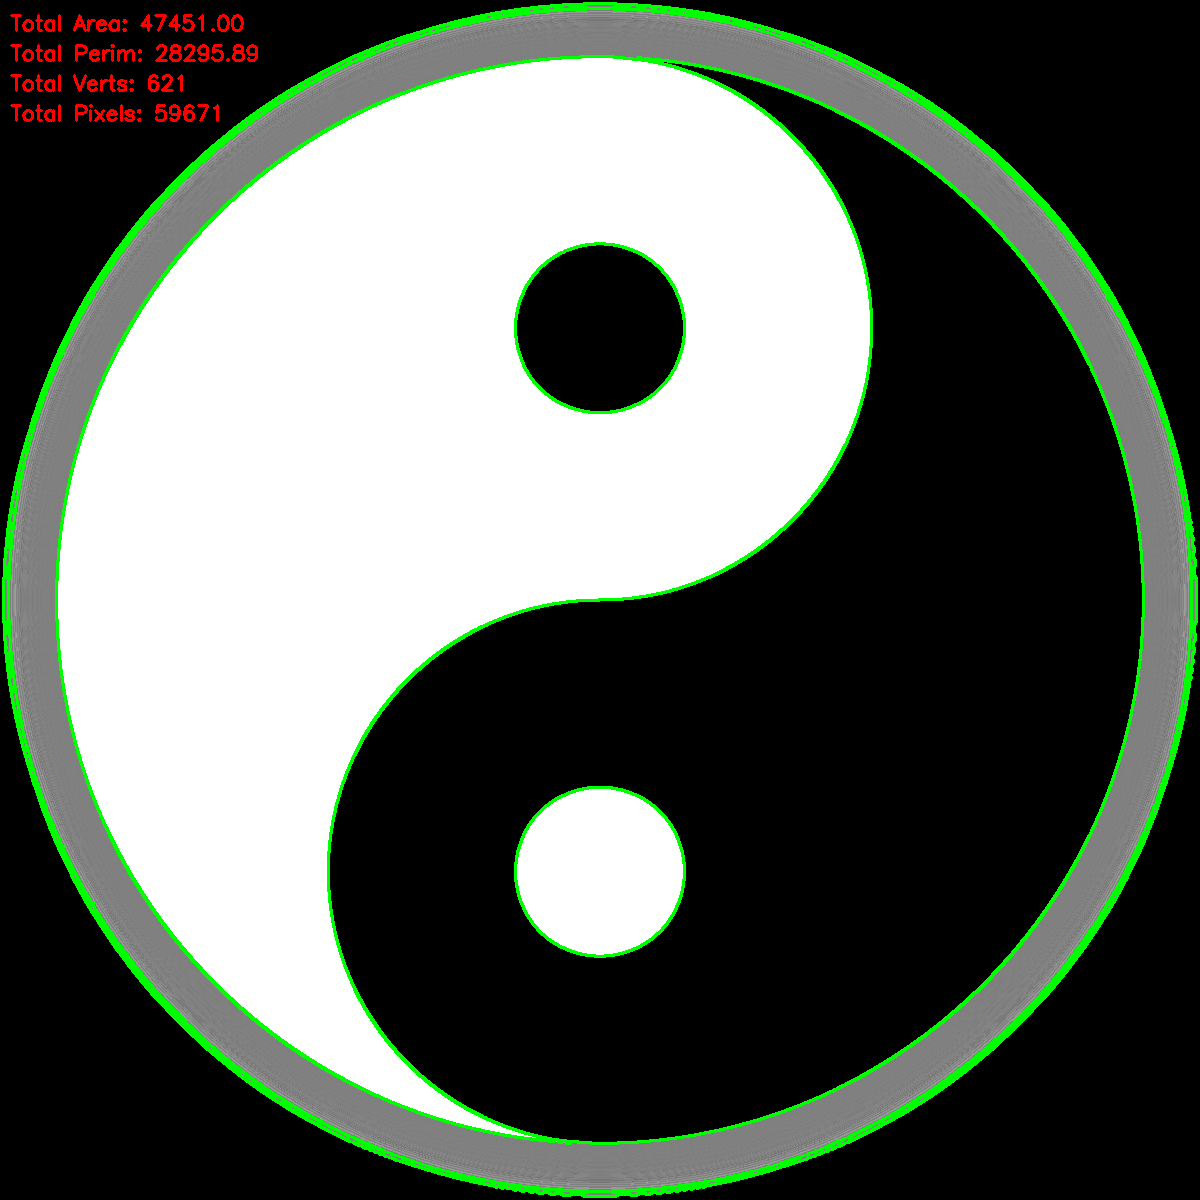
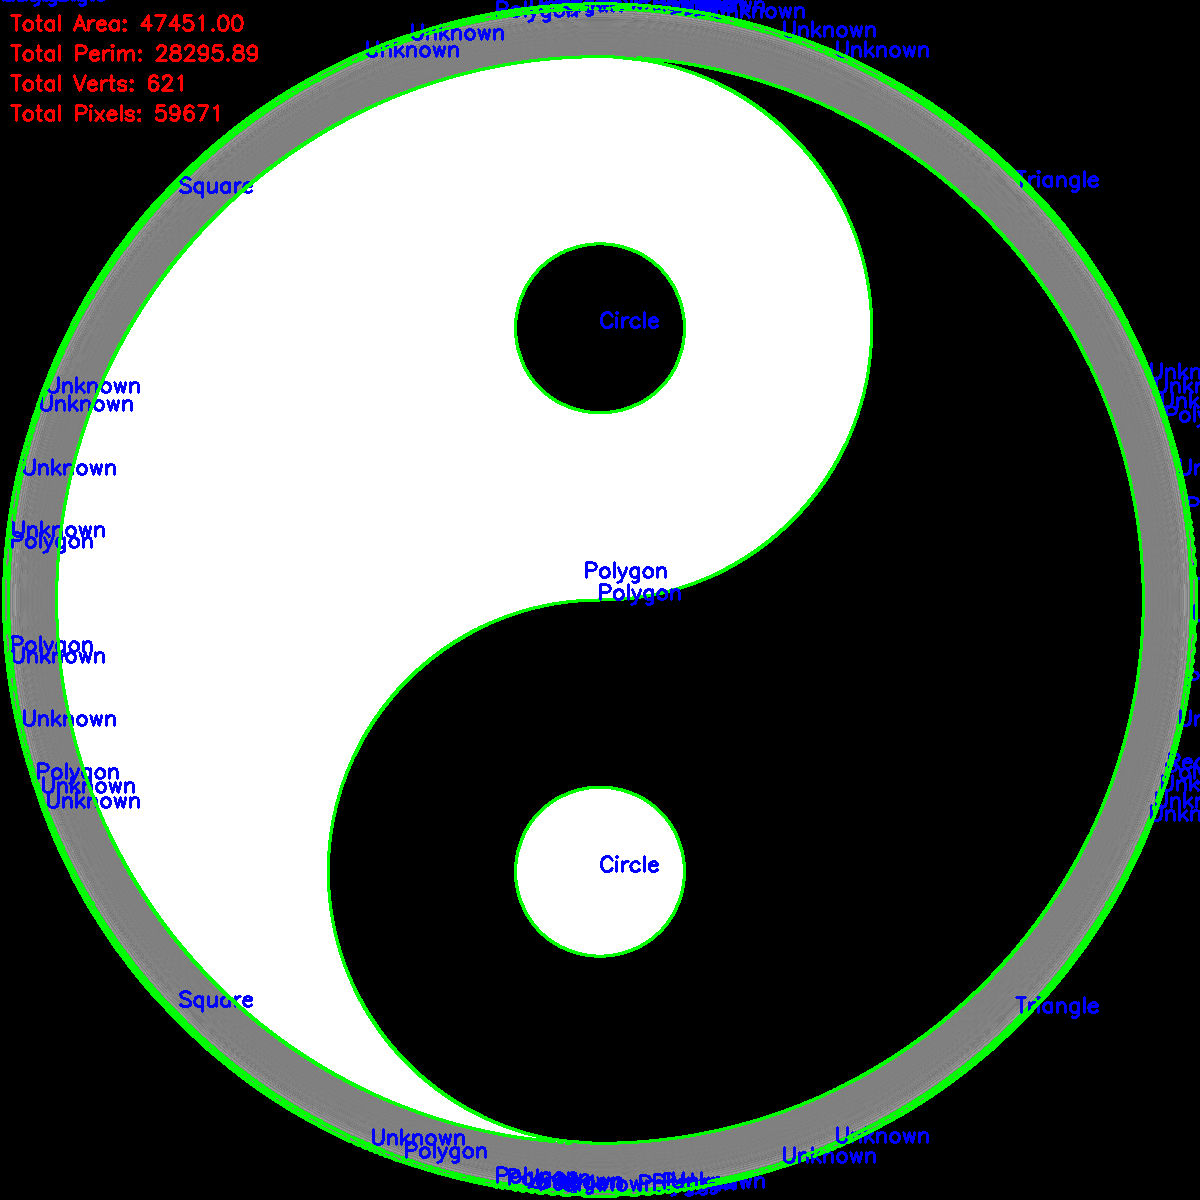
need to create kNN

diff --git a/contour_detection.py b/contour_detection.py
@@ -26,27 +26,47 @@ def find_contours(edge_image):
     contours, _ = cv2.findContours(edge_image, cv2.RETR_EXTERNAL, cv2.CHAIN_APPROX_SIMPLE)
     return contours
 def auto_label_shape(contour):
-    # Approximate the contour to a polygon (with more vertices, the better)
+    # Approximate the contour to a polygon
     perimeter = cv2.arcLength(contour, True)
     approx = cv2.approxPolyDP(contour, 0.04 * perimeter, True)  # 4% tolerance
-    
-    # Based on the number of vertices, label the shape
     vertices_count = len(approx)
-    
+
+    # Calculate the contour area and perimeter
+    area = cv2.contourArea(contour)
+
+    # Special cases for very small contours
+    if area < 10 and vertices_count < 4:
+        return 'Unknown'  # Too small to determine
+
+    # Circle detection: if the contour is round and has a high number of vertices
+    if vertices_count > 5:
+        # Use aspect ratio or perimeter/area ratio to determine if it's a circle
+        circularity = 4 * np.pi * area / (perimeter ** 2)
+        if circularity > 0.8:  # Circularity threshold (ideal circle is close to 1)
+            return 'Circle'
+
+    # Triangle detection
     if vertices_count == 3:
         return 'Triangle'
-    elif vertices_count == 4:
-        # Check if the width and height are roughly equal (for square/rectangle)
+
+    # Square/Rectangle detection (4 vertices)
+    if vertices_count == 4:
+        # Check if the shape is approximately square
         rect = cv2.boundingRect(approx)
         width, height = rect[2], rect[3]
-        if abs(width - height) < 0.1 * width:  # Threshold for "square" (aspect ratio check)
+        aspect_ratio = width / height
+        if 0.9 <= aspect_ratio <= 1.1:  # Threshold for square
             return 'Square'
         else:
             return 'Rectangle'
-    elif vertices_count > 4:
-        return 'Polygon'  # or other categories based on vertices count
-    else:
-        return 'Unknown'
+
+    # Handle other polygons
+    if vertices_count > 4:
+        return 'Polygon'
+
+    # Default case for unidentified shapes
+    return 'Unknown'
+
 # Inside your contour processing loop, replace the manual labeling with the auto_label_shape function:
 def calculate_shape_features(image, contours):
     features = []
@@ -97,15 +117,43 @@ def draw_and_display_features(image, contours, features):
     cv2.putText(image_with_contours, f"Total Pixels: {total_pixel_count}", (10, 120),
                 cv2.FONT_HERSHEY_SIMPLEX, 0.7, (0, 0, 255), 2)
     
-    # Optionally, draw the contours without repeating text for each
-    cv2.drawContours(image_with_contours, contours, -1, (0, 255, 0), 2)
-    
-    return image_with_contours
+    # Draw the contours and add labels
+    for i, contour in enumerate(contours):
+        # Get the label for the shape based on contours
+        label = auto_label_shape(contour)
+        
+        # Get the centroid of the contour to position the label
+        M = cv2.moments(contour)
+        if M["m00"] != 0:  # Ensure the contour is not empty
+            cX = int(M["m10"] / M["m00"])
+            cY = int(M["m01"] / M["m00"])
+        else:
+            cX, cY = 0, 0
 
+        # Draw the contour
+        cv2.drawContours(image_with_contours, [contour], -1, (0, 255, 0), 2)
+        
+        # Add the label near the centroid of the contour
+        cv2.putText(image_with_contours, label, (cX, cY),
+                    cv2.FONT_HERSHEY_SIMPLEX, 0.7, (255, 0, 0), 2)
+
+    return image_with_contours
+# Function to save the image with the new label
+def save_image_with_label(image, original_image_path):
+    # Extract the original image name without the extension
+    image_name = os.path.splitext(os.path.basename(original_image_path))[0]
+    
+    # Create the "kNN guessed" image filename
+    output_filename = f"{image_name}_kNN_guessed.jpg"
+    output_path = os.path.join('final_images', output_filename)
+    
+    # Save the image
+    cv2.imwrite(output_path, image)
+    print(f"Saved: {output_path}")
 # Main function to process images and save to "final_images" folder
 def main():
     # List of images for processing
-    image_paths = ['images/simple_circle.jpeg', 'images/simple_square.webp', 'images/simple_triangle.jpg', 'images/simple_yin_and_yang.png']
+    image_paths = ['images/simple_circle.jpeg', 'images/simple_square.webp', 'images/simple_triangle.jpg', 'images/simple_yin_and_yang.jpg']
     
     # Create folder "final_images" if it doesn't exist
     output_folder = 'final_images'
